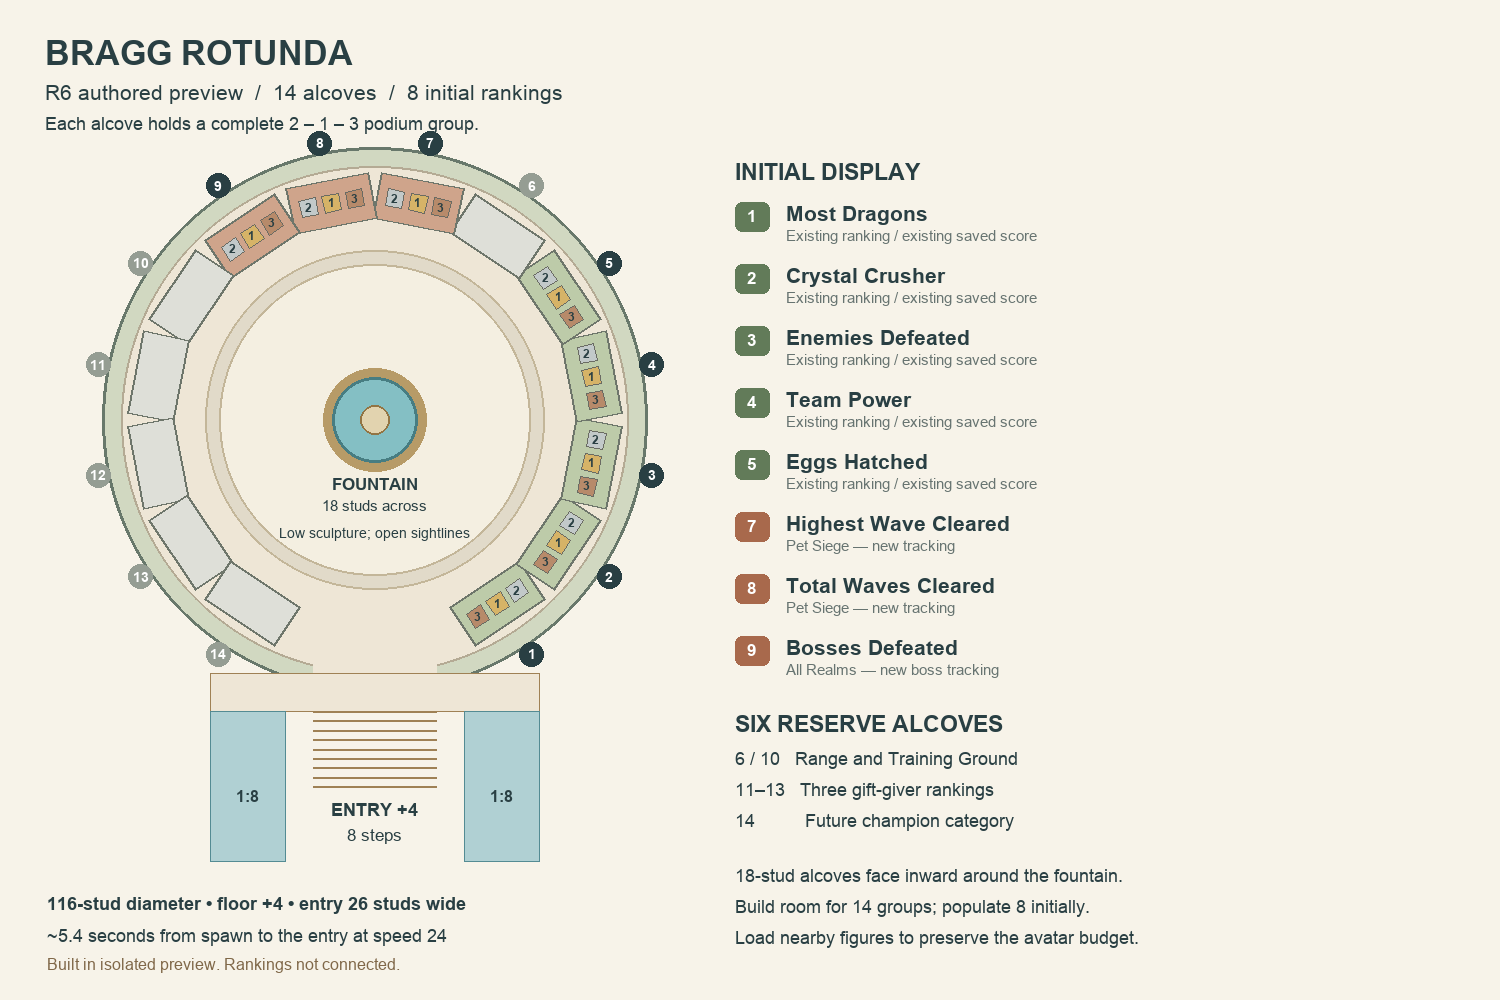
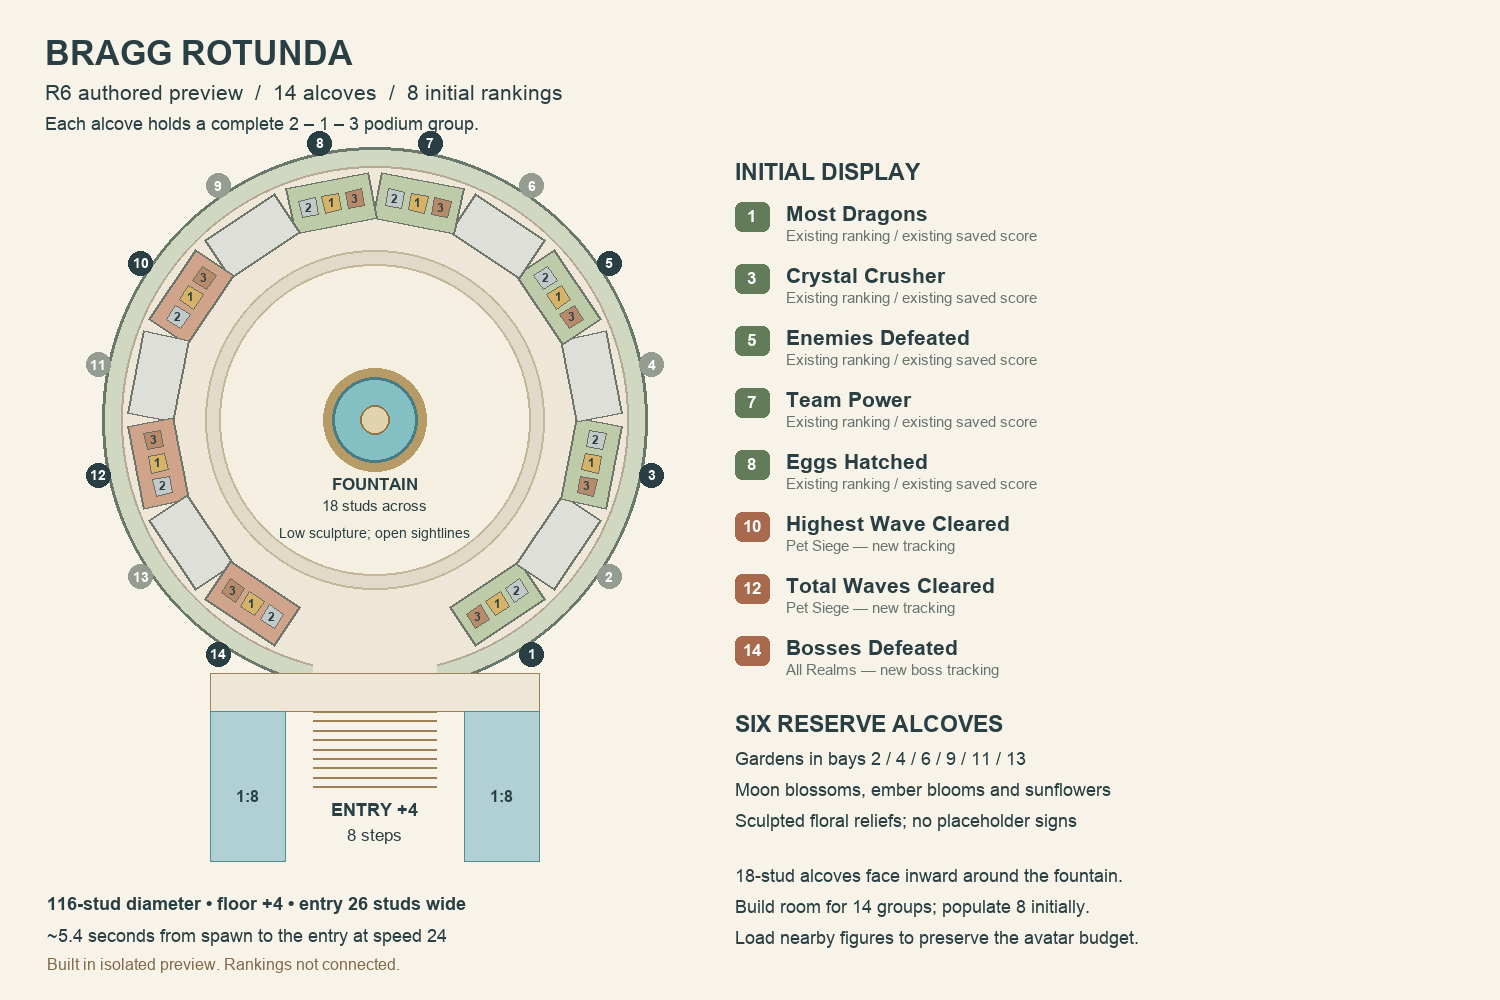
game: interleave Bragg flower gardens and sculpted wall art

diff --git a/tools/realm_crossroads/draw_bragg_plan.py b/tools/realm_crossroads/draw_bragg_plan.py
@@ -71,9 +71,9 @@ for b in [x for x in C['bays'] if x['phase']=='initial']:
     text(786,y+27,'All Realms — new boss tracking' if b['source']=='new_shared_tracking' else ('Pet Siege — new tracking' if b['source']=='new_tracking' else 'Existing ranking / existing saved score'),15,fill='#677471')
     y+=62
 text(735,711,'SIX RESERVE ALCOVES',23,strong=True)
-text(735,748,'6 / 10   Range and Training Ground',18)
-text(735,779,'11–13   Three gift-giver rankings',18)
-text(735,810,'14          Future champion category',18)
+text(735,748,'Gardens in bays 2 / 4 / 6 / 9 / 11 / 13',18)
+text(735,779,'Moon blossoms, ember blooms and sunflowers',18)
+text(735,810,'Sculpted floral reliefs; no placeholder signs',18)
 text(735,865,'18-stud alcoves face inward around the fountain.',18)
 text(735,896,'Build room for 14 groups; populate 8 initially.',18)
 text(735,927,'Load nearby figures to preserve the avatar budget.',18)

diff --git a/docs/REALM_CROSSROADS_BRAGG_PLAN.md b/docs/REALM_CROSSROADS_BRAGG_PLAN.md
@@ -1,6 +1,6 @@
 # Bragg Rotunda and Pet Siege rankings — R6 preview
 
-2026-09-08. **Geometry authored in the existing isolated Studio preview.** No production tracking, rankings, awards or winner avatars are connected. Gate artwork remains accepted. Eight groups show PREVIEW nameplates; six reserve alcoves hold planting.
+2026-09-08. **Geometry authored in the existing isolated Studio preview.** No production tracking, rankings, awards or winner avatars are connected. Gate artwork remains accepted. Eight groups show PREVIEW nameplates; six reserve alcoves hold floral gardens and physical botanical wall reliefs.
 
 ![R6 Bragg Rotunda layout](art/realm_crossroads/bragg-r6-plan.png)
 
@@ -33,7 +33,7 @@ Machine-readable art configuration: `configs/realm_crossroads_bragg_plan.json`. 
 | Total Waves Cleared | Sustained Siege play | New durable lifetime counter required |
 | Bosses Defeated — All Realms | Actual boss defeats across Farm & Fight and Pet Siege | New shared durable lifetime counter required |
 
-Reserve six bays for Range, Training Ground, the three gift-giver rankings, and a future category. Their existing backend presence does not mean all six are ready for physical display. Preserve challenge round and gift scoring semantics individually.
+Reserve six bays for Range, Training Ground, the three gift-giver rankings, and a future category. These are now distributed at positions 2, 4, 6, 9, 11 and 13, between leaderboard groups. Moon-blossom, ember-bloom and sunflower gardens repeat as balanced pairs; sculpted medallions replace all FUTURE signage. Reserved board assignments remain metadata only. Their existing backend presence does not mean all six are ready for physical display. Preserve challenge round and gift scoring semantics individually.
 
 Later candidates worth recording before granting a podium:
 

diff --git a/docs/wiki/LOG.md b/docs/wiki/LOG.md
@@ -8753,3 +8753,5 @@ first-session cohort rates.
 - 2026-09-08 — Planned Bragg Rotunda: fourteen podium groups, eight initial rankings and central fountain. Audited existing Siege reached-wave record versus proposed cleared-wave/lifetime/boss-wave counters; documented shared leaderboard exclusions, offline provenance, migration and avatar budget. Plan only; no map/backend changes. See [R6 design](../REALM_CROSSROADS_BRAGG_PLAN.md).
 
 - 2026-09-08 — Built R6 Bragg Rotunda in the existing isolated preview: 116-stud court, low halo-and-horns fountain, eight 2/1/3 podium groups, six planted reserves, physical category titles. Changed boss category to actual Bosses Defeated across both modes. Stairs, both ramps and fountain-side aisle passed at speed 24. Rankings remain preview-only; original terrain/gallery backed up in ServerStorage.BeforeBraggR6. See [Realm Crossroads](REALM_CROSSROADS.md).
+
+- 2026-09-08 — Bragg visual refinement: distributed six reserve alcoves between eight ranking groups, replaced FUTURE signs/topiary with three paired flower-garden themes and sculpted botanical wall medallions. Reserved category bindings remain metadata; same local Studio preview, gate/terrain dimensions unchanged.

diff --git a/docs/wiki/REALM_CROSSROADS.md b/docs/wiki/REALM_CROSSROADS.md
@@ -10,7 +10,7 @@ User accepted the R5 gate artwork and requested more Bragg capacity plus Siege-s
 rankings using existing leaderboard rules. The [R6 design](../REALM_CROSSROADS_BRAGG_PLAN.md)
 now has a +4 circular court, 116 studs across, with a low 18-stud fountain, fourteen
 2/1/3 alcoves, eight initial categories, and six reserve bays. Shared stairs/ramp landings
-avoid routing visitors through podiums. Geometry is built; production tracking remains pending. Eight podium groups have physical PREVIEW nameplates; six reserve bays are planted. A low halo-and-horns fountain anchors the center.
+avoid routing visitors through podiums. Geometry is built; production tracking remains pending. Eight podium groups have physical PREVIEW nameplates; six reserve bays at positions 2/4/6/9/11/13 alternate among the rankings, with moon-blossom, ember-bloom and sunflower gardens plus physical floral medallions. No FUTURE signage remains. A low halo-and-horns fountain anchors the center.
 
 The source already saves **highest wave reached** when a wave starts. New Highest Wave
 Cleared and Total Waves Cleared require durable server-side settlement counters. User replaced
